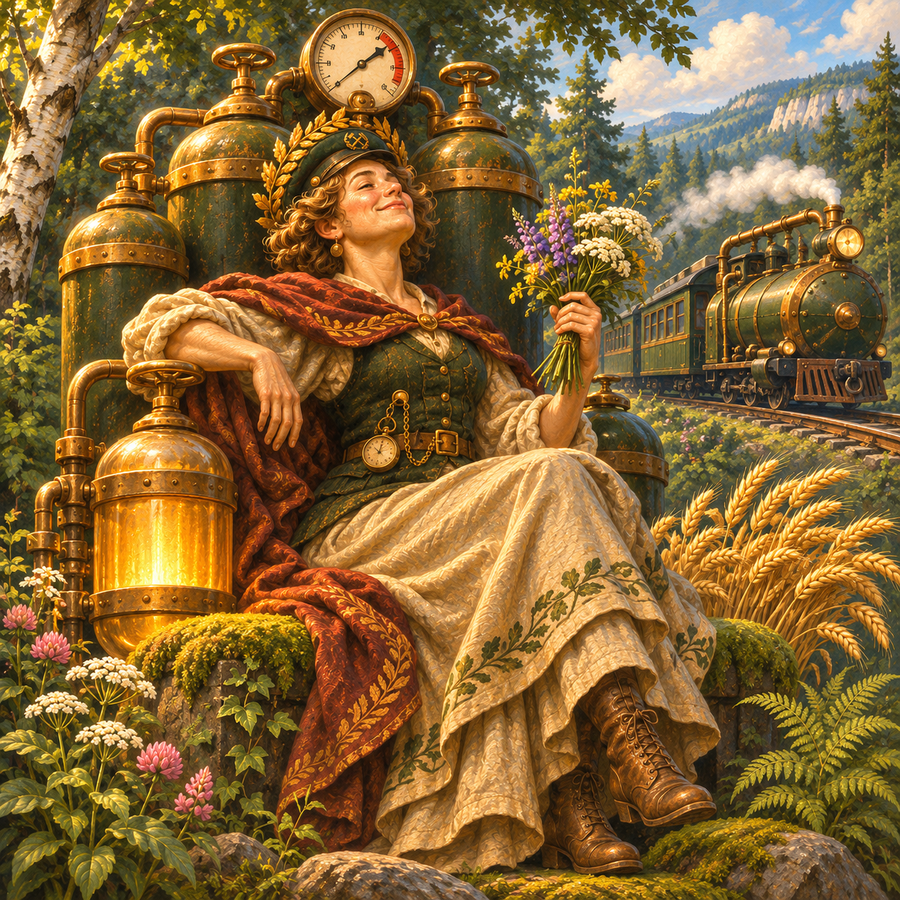
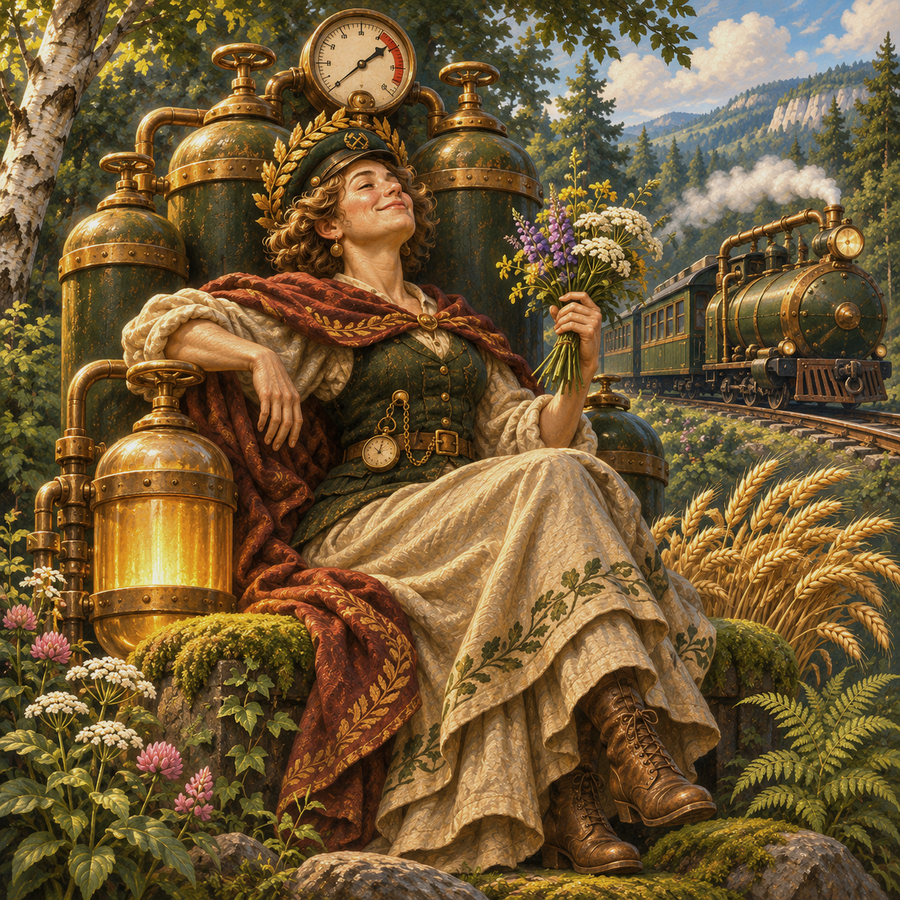
Картины карточек приглушены; в план на самый конец: заменить живопись на ар-деко

diff --git a/tools/make_card_art.py b/tools/make_card_art.py
@@ -4,11 +4,15 @@
 import os
 import re
 import sys
-from PIL import Image
+from PIL import Image, ImageEnhance
 
 ROOT = os.path.dirname(os.path.dirname(os.path.abspath(__file__)))
 SRC = os.path.join(ROOT, "tools", "art_sources", "inbox", "P10_tarot_cards")
 DST = os.path.join(ROOT, "ForestRail", "assets", "art_kazik", "cards")
+# приглушаем картины GPT: они слишком яркие и насыщенные для тёмного казино (решение владельца 04.11.2026)
+SATURATION = 0.80
+BRIGHTNESS = 0.90
+CONTRAST = 1.04
 ALIAS = {"wheel_of_fortune": "wheel", "hanged_man": "hanged"}
 
 os.makedirs(DST, exist_ok=True)
@@ -20,6 +24,9 @@ for name in sorted(os.listdir(SRC)):
     cid = ALIAS.get(m.group(2), m.group(2))
     im = Image.open(os.path.join(SRC, name)).convert("RGB")
     im.thumbnail((900, 900), Image.LANCZOS)
+    im = ImageEnhance.Color(im).enhance(SATURATION)
+    im = ImageEnhance.Brightness(im).enhance(BRIGHTNESS)
+    im = ImageEnhance.Contrast(im).enhance(CONTRAST)
     im.save(os.path.join(DST, cid + ".png"), optimize=True)
     done.append("%s (%dx%d)" % (cid, im.width, im.height))
 print("карточек: %d: %s" % (len(done), ", ".join(done)))

diff --git a/docs/ROADMAP_RU.md b/docs/ROADMAP_RU.md
@@ -373,6 +373,7 @@
 | 6 | я | Подключение П5 (электровоз) и П6 (станции E и F), затем рамки и окна (П8) | preview.81–82 |
 | 7 | я | Казик, этап «д»: карточки гаджетов, альбом, установка, затем возвращение к гаджетам машин по одной (электровоз первым) | Веха 6 дальше |
 | 8 | оба | Цеппелин и реактивный: решить гребное колесо или винт, дозаказать винт, пламя, парашюты, закрылки; потом В6.5–В6.6 | новые машины |
+| **В самом конце** | оба | **Заменить живописные картины карточек Таро на выбранный стиль.** Сейчас все 22 карточки нарисованы живописью (тёплая реалистичная картина). Владельцу понравился **ар-деко** (плакат железной дороги: лучи, золото на зелёном с красным); тест на Шуте, Башне и Звезде идёт. Когда стиль подтверждён и рецепты (`KAZIK_CARD_RECIPES_RU.md`) вычитаны, GPT перерисовывает все 22 в ар-деко, `tools/make_card_art.py` подгоняет и ставит в рамку; код карточки не меняется. Пока до этого живопись остаётся рабочей (приглушена: насыщенность 0,80, яркость 0,90). | карточки в ар-деко |
 
 Параллельно по мере сил: Т14 (`drive_campaign` встаёт на M06), пересборка листа такелажа (7 неприменённых предметов), проверка подъёмов и спусков по новой дороге.
 

diff --git a/docs/KAZIK_CARD_RECIPES_RU.md b/docs/KAZIK_CARD_RECIPES_RU.md
@@ -2,6 +2,8 @@
 
 Нужны, чтобы картина читалась как **настоящая карта Таро** и только потом как железнодорожная. Идея владельца: «надо продумать вид каждой карты». Рецепты можно править, по ним потом пишутся промпты для GPT (пакет П10, стиль выбирается отдельно: см. `STYLE_TEST_RU.md`, `STYLE_ARTDECO_TEST_RU.md`).
 
+**Решение владельца 04.11.2026 (на самый конец):** сейчас картины живописью, потом заменить все 22 на стиль ар-деко, который понравился (плакат железной дороги). Рецепты ниже не зависят от стиля.
+
 ## Общие правила (для всех карт)
 
 1. **Сначала аркан.** Классическая поза и символы узнаются даже силуэтом. Железная дорога вторична.
